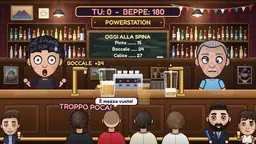
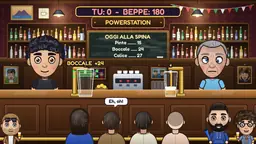
La Spina: lo Zere vestito sportivo (felpa blu col cappuccio, jeans, scarpe da ginnastica bianche)
Claude-Session: https://claude.ai/code/session_01SvbmSwNcf9mbbMGxdptx9o

diff --git a/PowerStation Party - sito/js/grafica/personaggi.js b/PowerStation Party - sito/js/grafica/personaggi.js
@@ -59,8 +59,8 @@ export const PERSONAGGI = {
   // lo Zere (La Spina del PowerStation): giovane, capelli scuri corti, sfumati a zero ai lati e un
   // po' più lunghi sopra, tirati su e indietro (la fronte resta scoperta); barba scura corta e
   // curata che parte dal basettone e segue la mascella, coi baffi; pelle chiara, palpebre un po'
-  // basse, mezzo sorriso. Spalle larghe, elegante: completo blu notte, camicia bianca, cravatta
-  // grigio-azzurra a puntini, pochette e fiore all'occhiello. Ha sempre in mano la sua vuvuzela BLU
+  // basse, mezzo sorriso. Spalle larghe, vestito sportivo (Giorgio: la foto era a un matrimonio):
+  // felpa blu col cappuccio, jeans e scarpe da ginnastica bianche. Ha sempre in mano la sua vuvuzela BLU
   // (accessorio): all'ultimo atto la suona (la posa 'vuvuzela', creata dalla scena). Non è giocabile.
   zere: {
     pelle: '#f2c9ab', capelli: '#1d1612', capelliLuce: '#4f4038', occhi: '#3e2716',
@@ -68,7 +68,7 @@ export const PERSONAGGI = {
     faccia: { top: 46, larg: 56, mascella: 50, mascellaY: 153, mento: 28, mentoY: 181 },
     stile: 'sfumatoAlto', barba: 'curata', naso: [10, 13], orecchie: 10, sorriso: 2,
     corporatura: 1.1,
-    vestito: { tipo: 'completo', colore: '#1b2440', camicia: '#f5f7fb', cravatta: '#8696ad' }, pantaloni: '#1b2440', scarpe: '#1c1a1e',
+    vestito: { tipo: 'felpa', colore: '#2a4fa8' }, pantaloni: '#3d5278', scarpe: '#f2f2f4',
     accessorio: 'vuvuzela',
   },
   // Marsupino: testa rasata, barba folta e scura, occhiali da sole neri,
